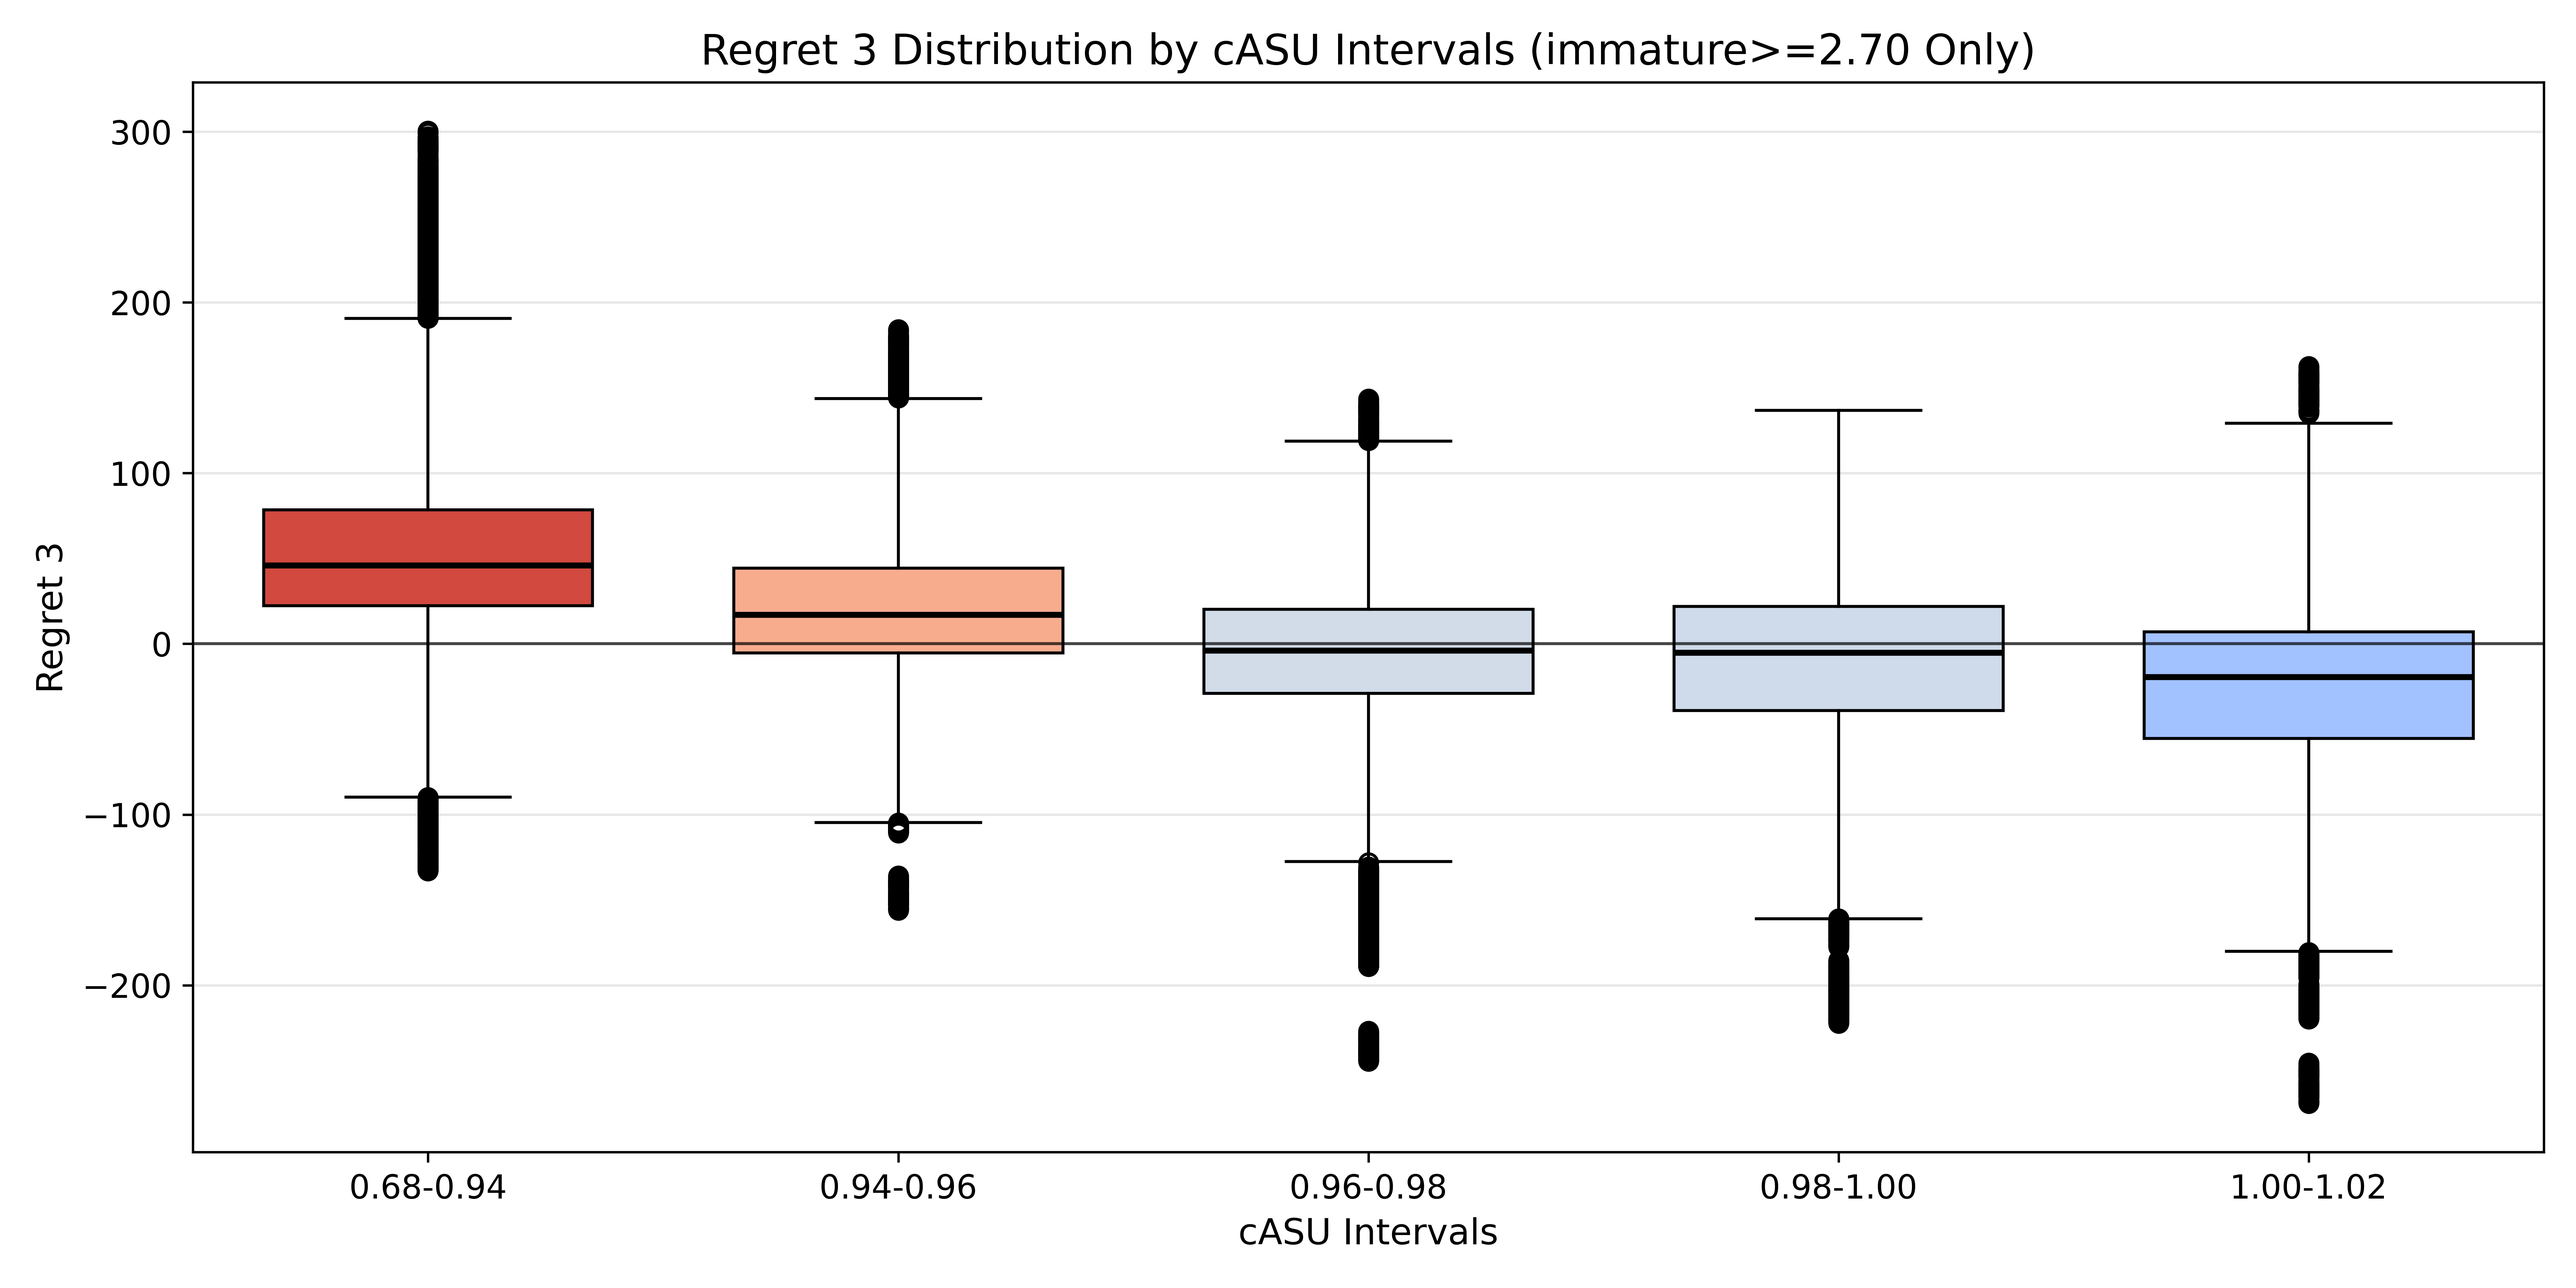
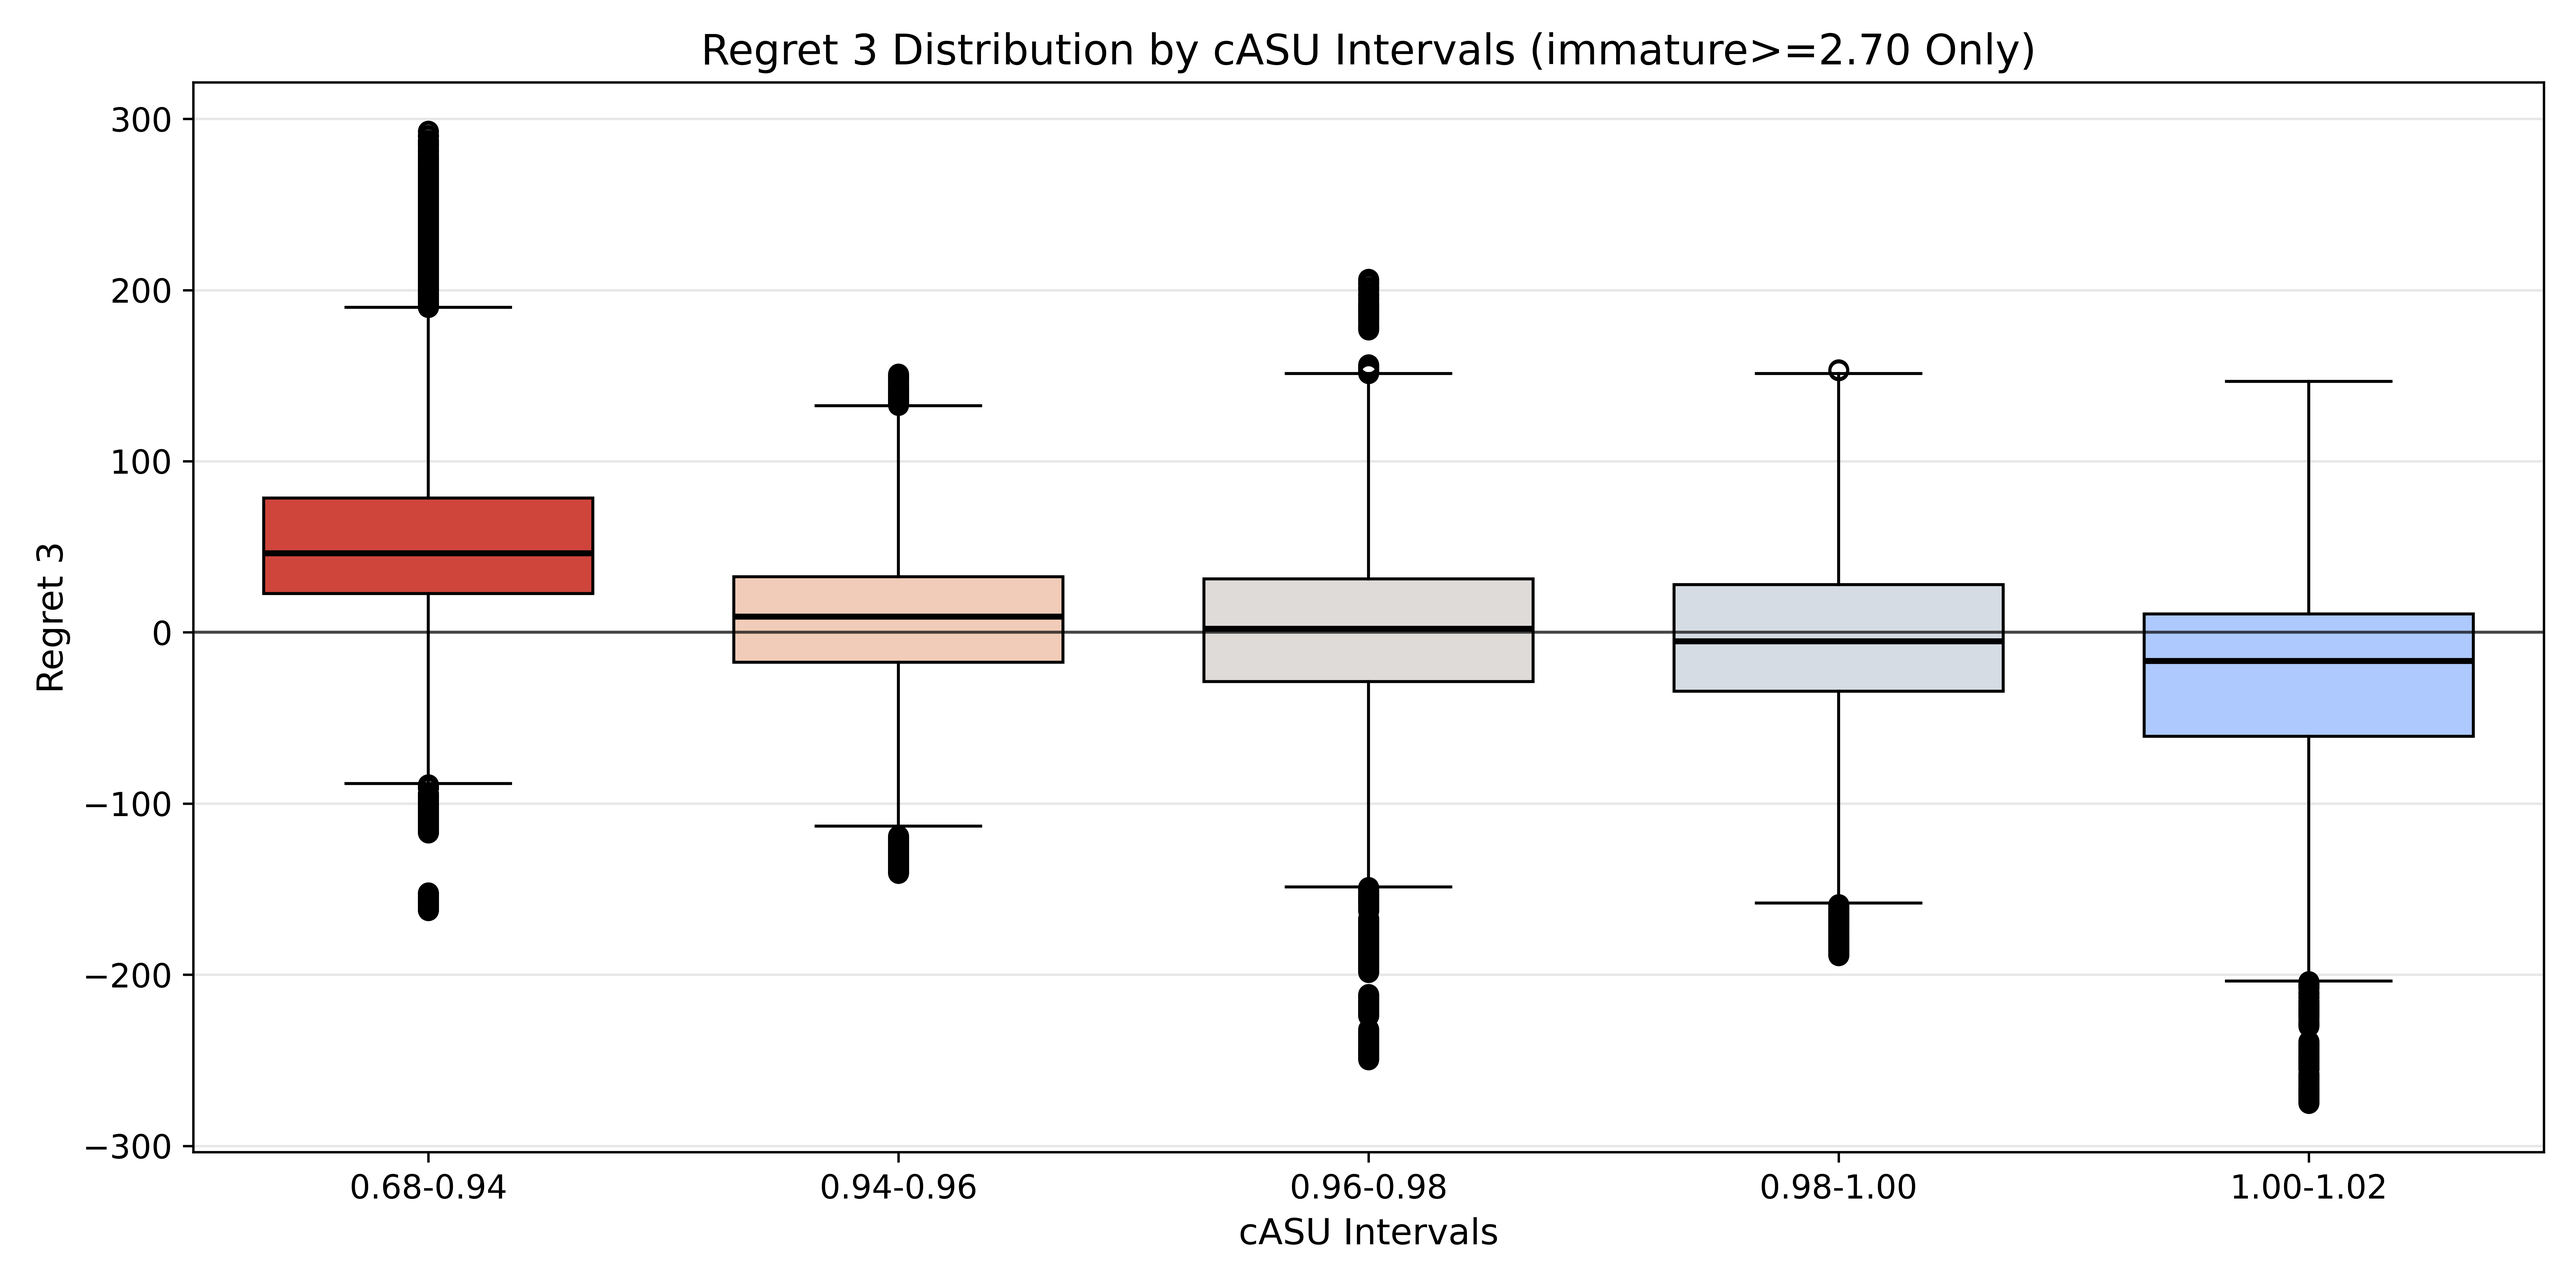
Generate last figures

diff --git a/sdplot_4.py b/sdplot_4.py
@@ -135,6 +135,10 @@ ax2.set_title("Regret 3 vs Capex Ratio (Amine/CLC)", fontsize=16)
 ax2.tick_params(axis='both', labelsize=13)
 ax2.tick_params(axis='x', labelsize=13)  # Explicitly set x-axis tick fontsize to match ax1
 
+# Set explicit x-axis ticks to ensure 1 is included
+ax2.set_xticks([0, 1, 2, 3, 4, 5, 6, 7, 8])
+ax2.set_xticklabels(['0', '1', '2', '3', '4', '5', '6', '7', '8'])
+
 # Add horizontal line at y = 0
 ax2.axhline(y=0, color='black', linestyle='-', linewidth=1, alpha=0.7)
 

diff --git a/controller.py b/controller.py
@@ -194,11 +194,11 @@ subsets = {
     "All Data": outcomes_df,
     "High-regret": outcomes_df[
         ((outcomes_df["timing"] == 5) | (outcomes_df["timing"] == 10)) &
-        (outcomes_df["cASU"] < 0.90)
+        (outcomes_df["cASU"] < 0.98)
     ],
     "Low-regret": outcomes_df[
         ((outcomes_df["timing"] == 15) | (outcomes_df["timing"] == 20)) &
-        (outcomes_df["cASU"] > 0.90)
+        (outcomes_df["cASU"] > 0.98)
     ]
 }
 
